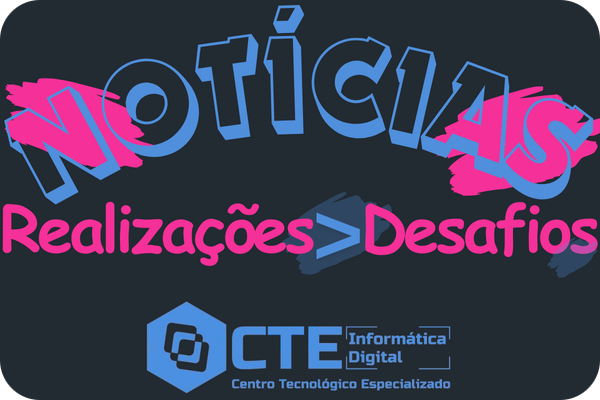
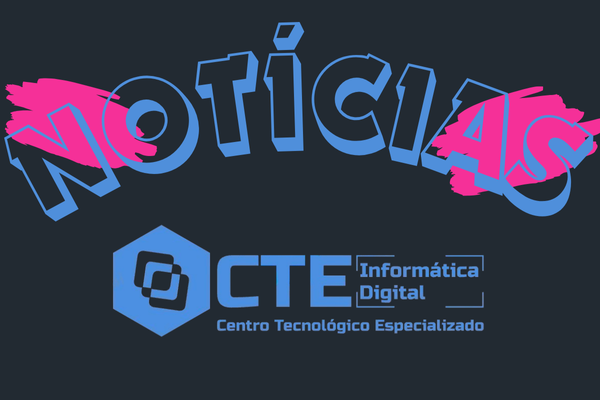
Remover sinal maior e texto, parte 2.

diff --git a/index.html b/index.html
@@ -532,7 +532,14 @@
             <br/>Aqui vem um pequeno texto do cte
           </p>
           <p style="color:#151e23; line-height: 19px">
-          Lorem Ipsum is simply dummy text of the printing and typesetting industry. Lorem Ipsum has been the industry's standard dummy text ever since the 1500s, when an unknown printer took a galley of type and scrambled it to make a type specimen book. It has survived not only five centuries, but also the leap into electronic typesetting, remaining essentially unchanged. It was popularised in the 1960s with the release of Letraset sheets containing Lorem Ipsum passages, and more recently with desktop publishing software like Aldus PageMaker including versions of Lorem Ipsum.
+          Com esta newsletter damos início a um ciclo de comunicações regulares, com o objetivo de divulgar informações relativas à evolução do projeto CTE – Informática/Digital.
+          </p>
+          <p style="color:#151e23; line-height: 19px">
+            Neste momento, as seis salas CTE estão já equipadas com mobiliário novo e com uma infraestrutura elétrica e de dados/Internet preparada para operar com equipamentos digitais, disponíveis em breve.
+          </p>
+          
+          <p style="color:#151e23; line-height: 19px">
+            Entretanto, começaram a consolidar-se ambientes pedagógicos mais diversificados e com mais recurso à tecnologia.
           </p></div>
     
                 </td>
